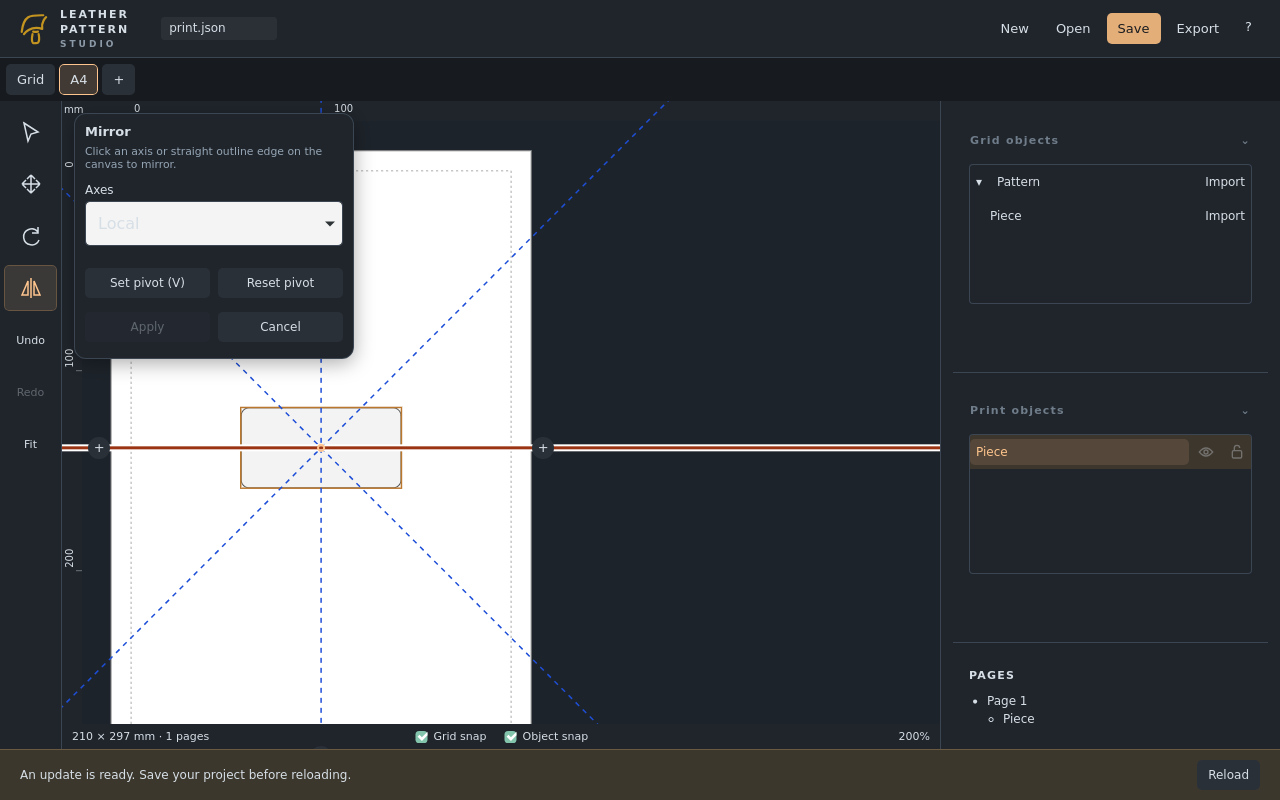
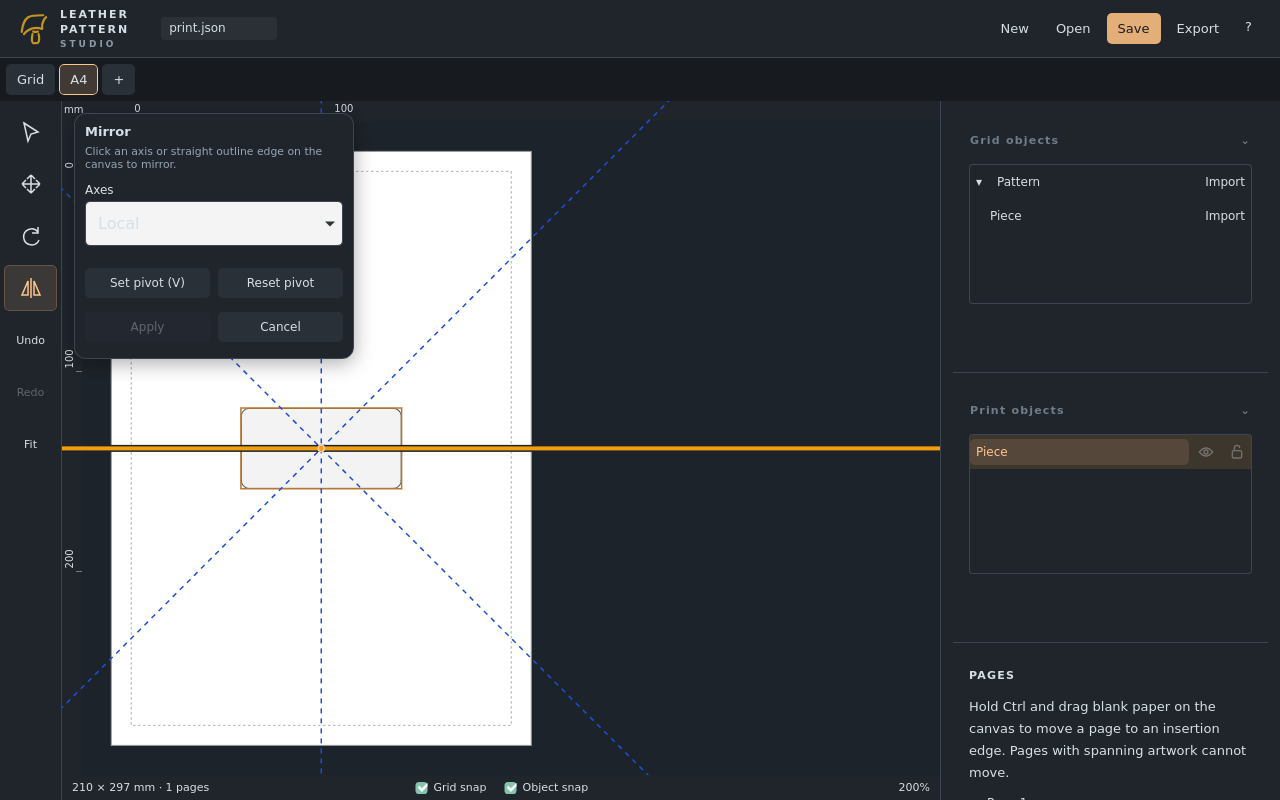
Match print mirror highlights to Grid

Changed region(s): [[0.0, 0.875, 1.0, 1.0], [0.0312, 0.5, 0.75, 0.625], [0.2812, 0.1875, 0.4062, 0.2188]]

diff --git a/src/vue/PrintWorkspace.vue b/src/vue/PrintWorkspace.vue
@@ -1698,14 +1698,14 @@ async function paintFrame() {
           ? mirrorHover.value.map(worldPixel)
           : axisPixels(hoverMirrorOffset);
       const [a, b] = projected;
-      ctx.strokeStyle = "#fff";
+      ctx.strokeStyle = css.getPropertyValue("--canvas").trim();
       ctx.lineWidth = 7;
       ctx.beginPath();
       ctx.moveTo(a.x, a.y);
       ctx.lineTo(b.x, b.y);
       ctx.stroke();
-      ctx.strokeStyle = "#9a3412";
-      ctx.lineWidth = 3;
+      ctx.strokeStyle = "#f59e0b";
+      ctx.lineWidth = 4;
       ctx.beginPath();
       ctx.moveTo(a.x, a.y);
       ctx.lineTo(b.x, b.y);

diff --git a/docs/manual/printing.md b/docs/manual/printing.md
@@ -38,7 +38,7 @@ The **Print objects** panel controls this layout only. Select a row or click an 
 - Drag rows to reorder them. An empty dashed outline shows the destination, and surrounding rows move aside. Use the upper or lower half of an object row to place items before or after it; use the middle of a folder row to append inside it. Dragging a selected row moves the selected movable items together in tree order. A floating preview shows the number of moved items. Drop on the outlined area below the last row to append a free item at the top level. Linked children remain within their imported-folder boundary; a selection that crosses those boundaries cannot move together. Escape cancels. Each completed move is one undo step.
 - **Delete** removes print placements. Removing a child from an imported folder suppresses it for that import, so future source edits do not immediately restore it. Import again to obtain another copy.
 
-Choose **Mirror (M)** to reflect selected placements. Hovering either side of a mirror axis highlights the full line through the pivot. Choose X, Y, or a diagonal axis in the tool panel, or click a straight artwork edge. Local/world axes and pivot controls work as in Grid. Apply, Enter, or right-click commits; Escape or Cancel discards the preview. Mirroring affects linked print placements, including text and images, and survives saving and export.
+Choose **Mirror (M)** to reflect selected placements. Hovering either side of a mirror axis highlights the full line through the pivot, using the same orange stroke and theme-colored outline as Grid. Choose X, Y, or a diagonal axis in the tool panel, or click a straight artwork edge. Local/world axes and pivot controls work as in Grid. Apply, Enter, or right-click commits; Escape or Cancel discards the preview. Mirroring affects linked print placements, including text and images, and survives saving and export.
 
 ![Mirror tool with axis choices and linked artwork preview](/manual/images/print-mirror.png)
 
